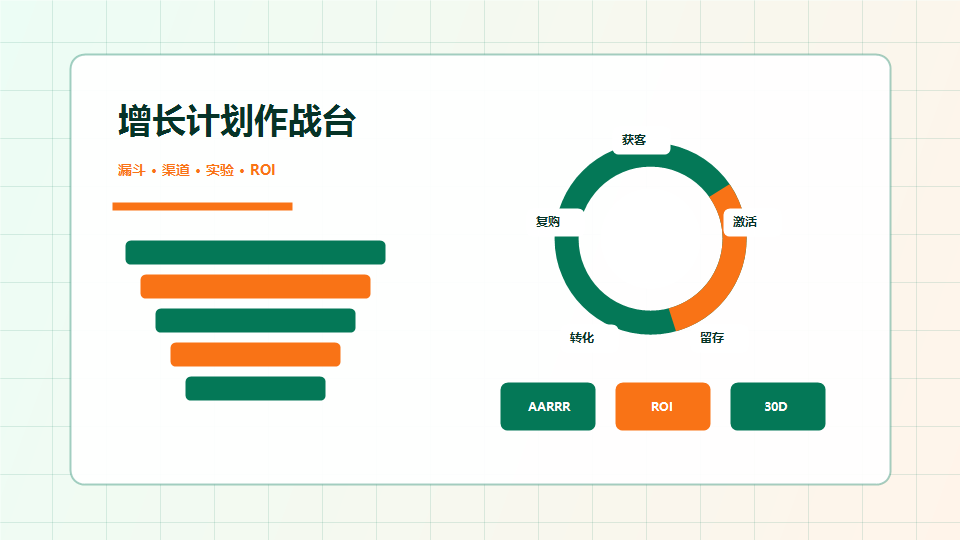
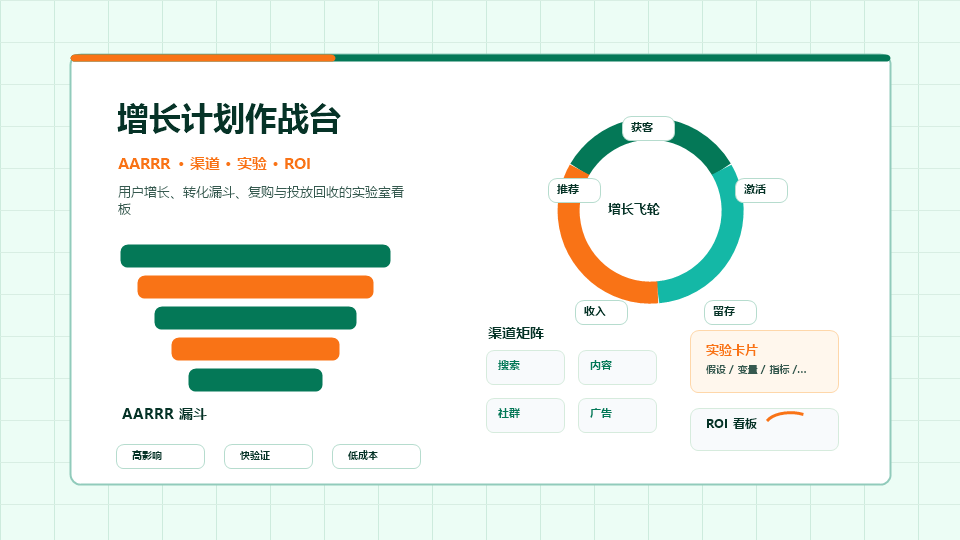
feat(ppt-template): 重设计增长营销模板

diff --git a/templates/official/marketing/marketing-campaign/growth/renderer.js b/templates/official/marketing/marketing-campaign/growth/renderer.js
@@ -12,6 +12,7 @@ export const templateRenderer = {
   "visual": {
     "primary": "047857",
     "accent": "F97316",
+    "secondary": "14B8A6",
     "background": "ECFDF5",
     "surface": "FFFFFF",
     "title": "063327",
